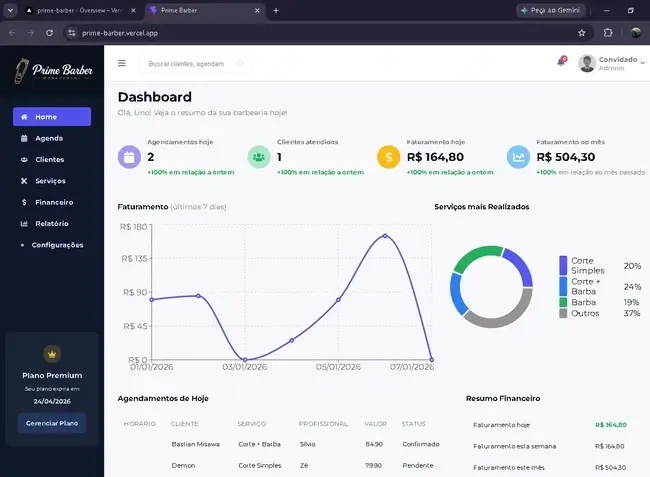
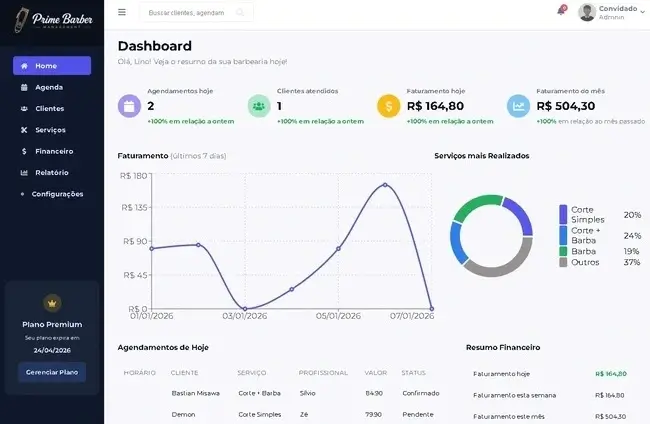
ajustes

diff --git a/index.html b/index.html
@@ -259,7 +259,7 @@
                   <li title="jvasconcelosbittencourt@gmail.com">
                     <b>Email:</b>
                     <a href="mailto:jvasconcelosbittencourt@gmail.com"
-                      >j(...)court@gmail.com</a
+                      >jvasconcelos<wbr />bittencourt</a
                     >
                   </li>
                   <li><b>Idade:</b> 30</li>
@@ -327,14 +327,14 @@
                     class="section__image"
                   />
                   <h3>
-                    Biblioteca Reutilizável Date Picker
-                    <span class="emphasis">Datephy</span>
+                    Site PHP com Dashboard Admin
+                    <span class="emphasis">C. Moraes</span>
                   </h3>
                   <p>
+                    <span class="section__mark php">PHP</span>
+                    <span class="section__mark mysql">MySQL</span>
                     <span class="section__mark javascript">JavaScript</span>
-                    <span class="section__mark vue">Vue.js 3</span>
-                    <span class="section__mark cdn">CDN</span>
-                    <span class="section__mark npm">NPM Package</span>
+                    <span class="section__mark ui">Ui Design</span>
                   </p>
                 </article>
                 <article class="section__card open-modal">
@@ -382,15 +382,13 @@
                     class="section__image"
                   />
                   <h3>
-                    SaaS Gestão para Salões de Beleza
-                    <span class="emphasis">Corta Cabelo</span>
+                    Darcy: Linguagem Baseada no Emmet
+                    <span class="emphasis">Darcy</span>
                   </h3>
                   <p>
-                    <span class="section__mark node">Node.js</span>
-                    <span class="section__mark react">React</span>
-                    <span class="section__mark vite">Vite</span>
-                    <span class="section__mark express">Express</span>
-                    <span class="section__mark mysql">MySQL</span>
+                    <span class="section__mark html">HTML</span>
+                    <span class="section__mark css">CSS</span>
+                    <span class="section__mark javascript">JavaScript</span>
                   </p>
                 </article>
                 <article class="section__card open-modal">
@@ -497,28 +495,32 @@
               <article class="modal">
                 <div class="modal__container">
                   <header>
-                    <h2>Biblioteca Reutilizável Date Picker</h2>
+                    <h2>Site PHP com Painel Admin</h2>
                     <div class="close-modal">✖</div>
                   </header>
                   <div class="modal__body">
                     <div class="modal__image">
-                      <h3>
-                        Date Picker com Moment JS, HTML, CSS & BootStrap 5
-                      </h3>
+                      <h3>PHP, MySQL, JavaScript & UI Design</h3>
                       <img
-                        src="./assets/images/modal-1.png"
+                        src="./assets/images/modal-3.webp"
                         alt="portfólio 1 webp"
                         class="modal__img"
                       />
                       <div class="modal__buttons">
-                        <a class="modal__button" href="#"
+                        <a
+                          class="modal__button"
+                          href="https://christianmoraes.com.br"
+                          target="_blank"
                           ><img
-                            src="./assets/icons/github.svg"
+                            src="./assets/icons/link.svg"
                             alt="link icon svg"
                             class="modal__icon"
                           /><span>Visualizar projeto</span>
                         </a>
-                        <a class="modal__button" href="#"
+                        <a
+                          class="modal__button"
+                          href="https://github.com/johnnyvasconcelos/CM-Singer"
+                          target="_blank"
                           ><img
                             src="./assets/icons/github.svg"
                             alt="github icon svg"
@@ -529,22 +531,20 @@
                     </div>
                     <div class="modal__text">
                       <header>
-                        <h3>Sistema de Aluguel de Cruzeiros</h3>
-                        <img src="#" alt="zoe yacht" class="zoe yacht" />
+                        <h3>Site de Cantor Cristão</h3>
                       </header>
                       <p>
-                        Date Picker Sistema Front-End de Aluguel de Cruzeiros
-                        com Moment JS para uma impresa na Turquia, chamada Zoe
-                        Yacht. O projeto envolveu muitas horas, mas está ainda
-                        no ar no site da empresa www.zoeyacht.com/rent.
+                        Site completo para cantor católico com exibição de
+                        apresentações, galerias de fotos e vídeos, blog e
+                        sistema de login com painel administrativo para o
+                        gerenciamento de todo o conteúdo.
                       </p>
                       <h4>Tecnologias Utilizadas</h4>
                       <ul>
-                        <li>● JavaScript (Moment JS)</li>
-                        <li>● HTML</li>
-                        <li>● CSS</li>
+                        <li>● PHP</li>
+                        <li>● MySQL</li>
+                        <li>● JavaScript</li>
                         <li>● UI Design</li>
-                        <li>● BootStrap 5</li>
                       </ul>
                     </div>
                   </div>
@@ -674,28 +674,29 @@
               <article class="modal">
                 <div class="modal__container">
                   <header>
-                    <h2>Saas Gestão para Salões de Beleza</h2>
+                    <h2>Linguagem Baseada no Emmet</h2>
                     <div class="close-modal">✖</div>
                   </header>
                   <div class="modal__body">
                     <div class="modal__image">
-                      <h3>
-                        Date Picker com Moment JS, HTML, CSS & BootStrap 5
-                      </h3>
+                      <h3>Comandos para construir elementos HTML simples</h3>
                       <img
-                        src="./assets/images/modal-1.png"
+                        src="./assets/images/modal-5.webp"
                         alt="portfólio 1 webp"
                         class="modal__img"
                       />
                       <div class="modal__buttons">
-                        <a class="modal__button" href="#"
+                        <a class="modal__button" target="_blank" href="#"
                           ><img
-                            src="./assets/icons/github.svg"
+                            src="./assets/icons/link.svg"
                             alt="link icon svg"
                             class="modal__icon"
                           /><span>Visualizar projeto</span>
                         </a>
-                        <a class="modal__button" href="#"
+                        <a
+                          class="modal__button"
+                          target="_blank"
+                          href="https://github.com/johnnyvasconcelos/darcy"
                           ><img
                             src="./assets/icons/github.svg"
                             alt="github icon svg"
@@ -706,22 +707,22 @@
                     </div>
                     <div class="modal__text">
                       <header>
-                        <h3>Sistema de Aluguel de Cruzeiros</h3>
-                        <img src="#" alt="zoe yacht" class="zoe yacht" />
+                        <h3>Comandos Simples</h3>
                       </header>
                       <p>
-                        Date Picker Sistema Front-End de Aluguel de Cruzeiros
-                        com Moment JS para uma impresa na Turquia, chamada Zoe
-                        Yacht. O projeto envolveu muitas horas, mas está ainda
-                        no ar no site da empresa www.zoeyacht.com/rent.
+                        Linguagem criada por mim baseada na sintaxe do Emmet,
+                        onde você escreve uma única linha de atalhos
+                        estruturados no terminal para gerar blocos inteiros de
+                        código de uma vez. Em vez de abrir o editor e digitar
+                        tag por tag, uma expressão lógica exibe os elementos e a
+                        hierarquia que deseja, e a CLI processa essa instrução
+                        para criar os arquivos HTML e CSS instantaneamente.
                       </p>
                       <h4>Tecnologias Utilizadas</h4>
                       <ul>
-                        <li>● JavaScript (Moment JS)</li>
+                        <li>● JavaScript</li>
                         <li>● HTML</li>
                         <li>● CSS</li>
-                        <li>● UI Design</li>
-                        <li>● BootStrap 5</li>
                       </ul>
                     </div>
                   </div>
@@ -857,13 +858,13 @@
                 <div class="section__grow"></div>
               </div>
               <div class="section__bar">
-                <div class="section__skill">JavaScript</div>
-                <div class="section__value">80%</div>
+                <div class="section__skill">Vue JS</div>
+                <div class="section__value">65%</div>
                 <div class="section__grow"></div>
               </div>
               <div class="section__bar">
                 <div class="section__skill">React JS</div>
-                <div class="section__value">70%</div>
+                <div class="section__value">67%</div>
                 <div class="section__grow"></div>
               </div>
               <div class="section__bar">
@@ -872,8 +873,8 @@
                 <div class="section__grow"></div>
               </div>
               <div class="section__bar">
-                <div class="section__skill">Bootstrap</div>
-                <div class="section__value">99%</div>
+                <div class="section__skill">SEO</div>
+                <div class="section__value">69%</div>
                 <div class="section__grow"></div>
               </div>
             </div>

diff --git a/assets/styles/main.css b/assets/styles/main.css
@@ -788,10 +788,11 @@ h1 {
   border: none;
 }
 .section__number {
-  font-size: 35px;
-  font-weight: 700;
-  color: var(--green);
+  font-size: 36px;
+  font-weight: 900;
+  color: var(--light);
 }
+/*
 .section__score:nth-of-type(1) .section__number {
   color: #f2d838;
 }
@@ -804,6 +805,7 @@ h1 {
 .section__score:nth-of-type(4) .section__number {
   color: #58c2f0;
 }
+*/
 .section__score p {
   color: var(--gray);
   font-weight: 300;
@@ -879,6 +881,7 @@ h1 {
 }
 .footer p {
   color: var(--border);
+  font-size: 12px;
 }
 /* responsive settings */
 @media (max-width: 1100px) {
